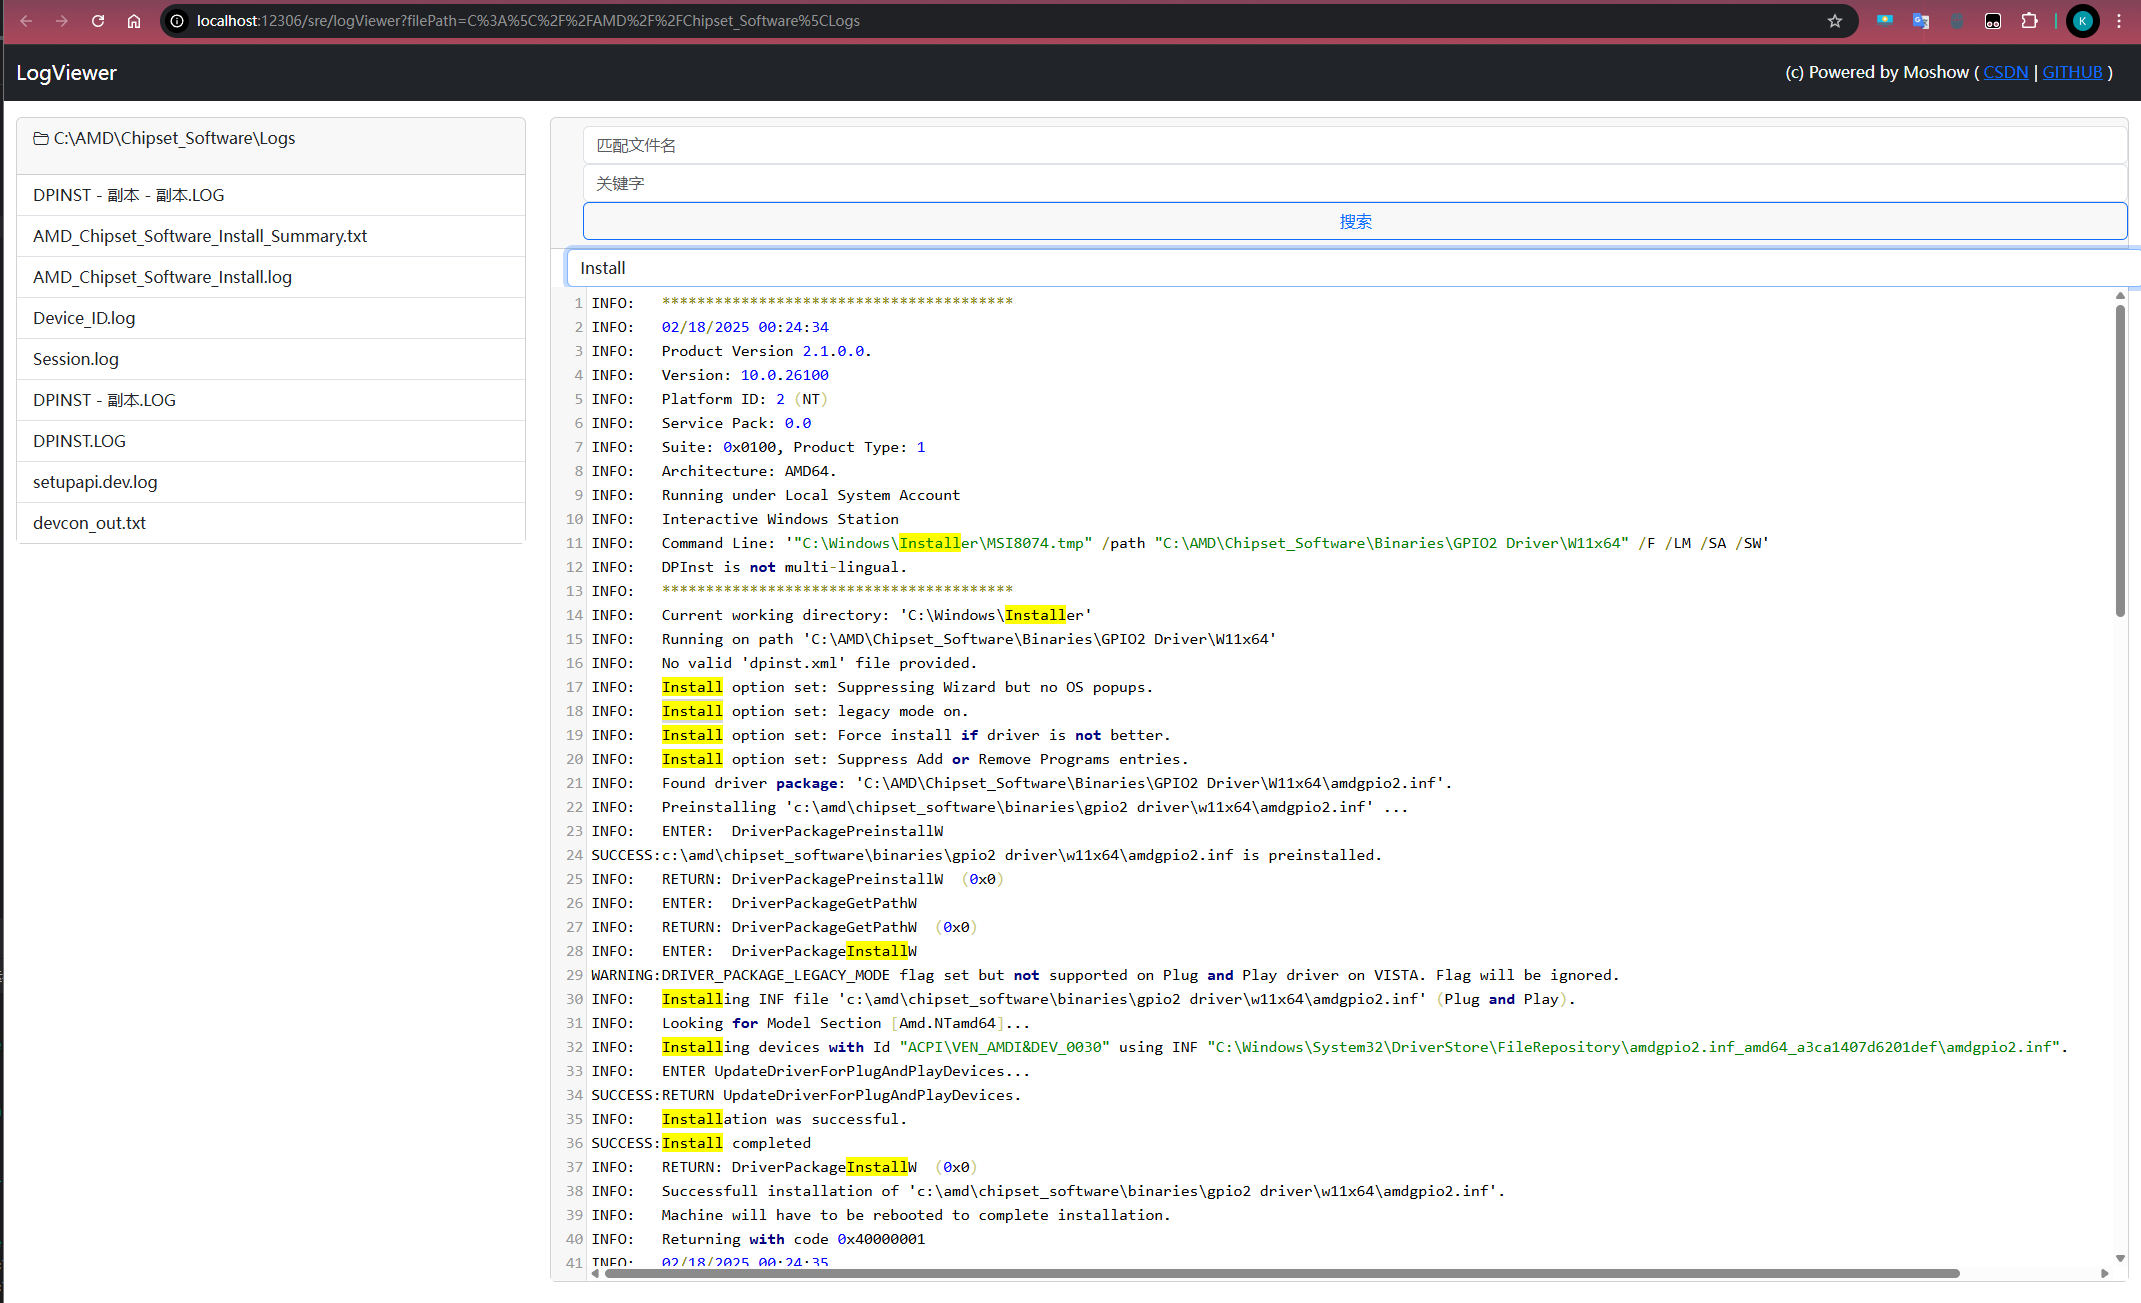
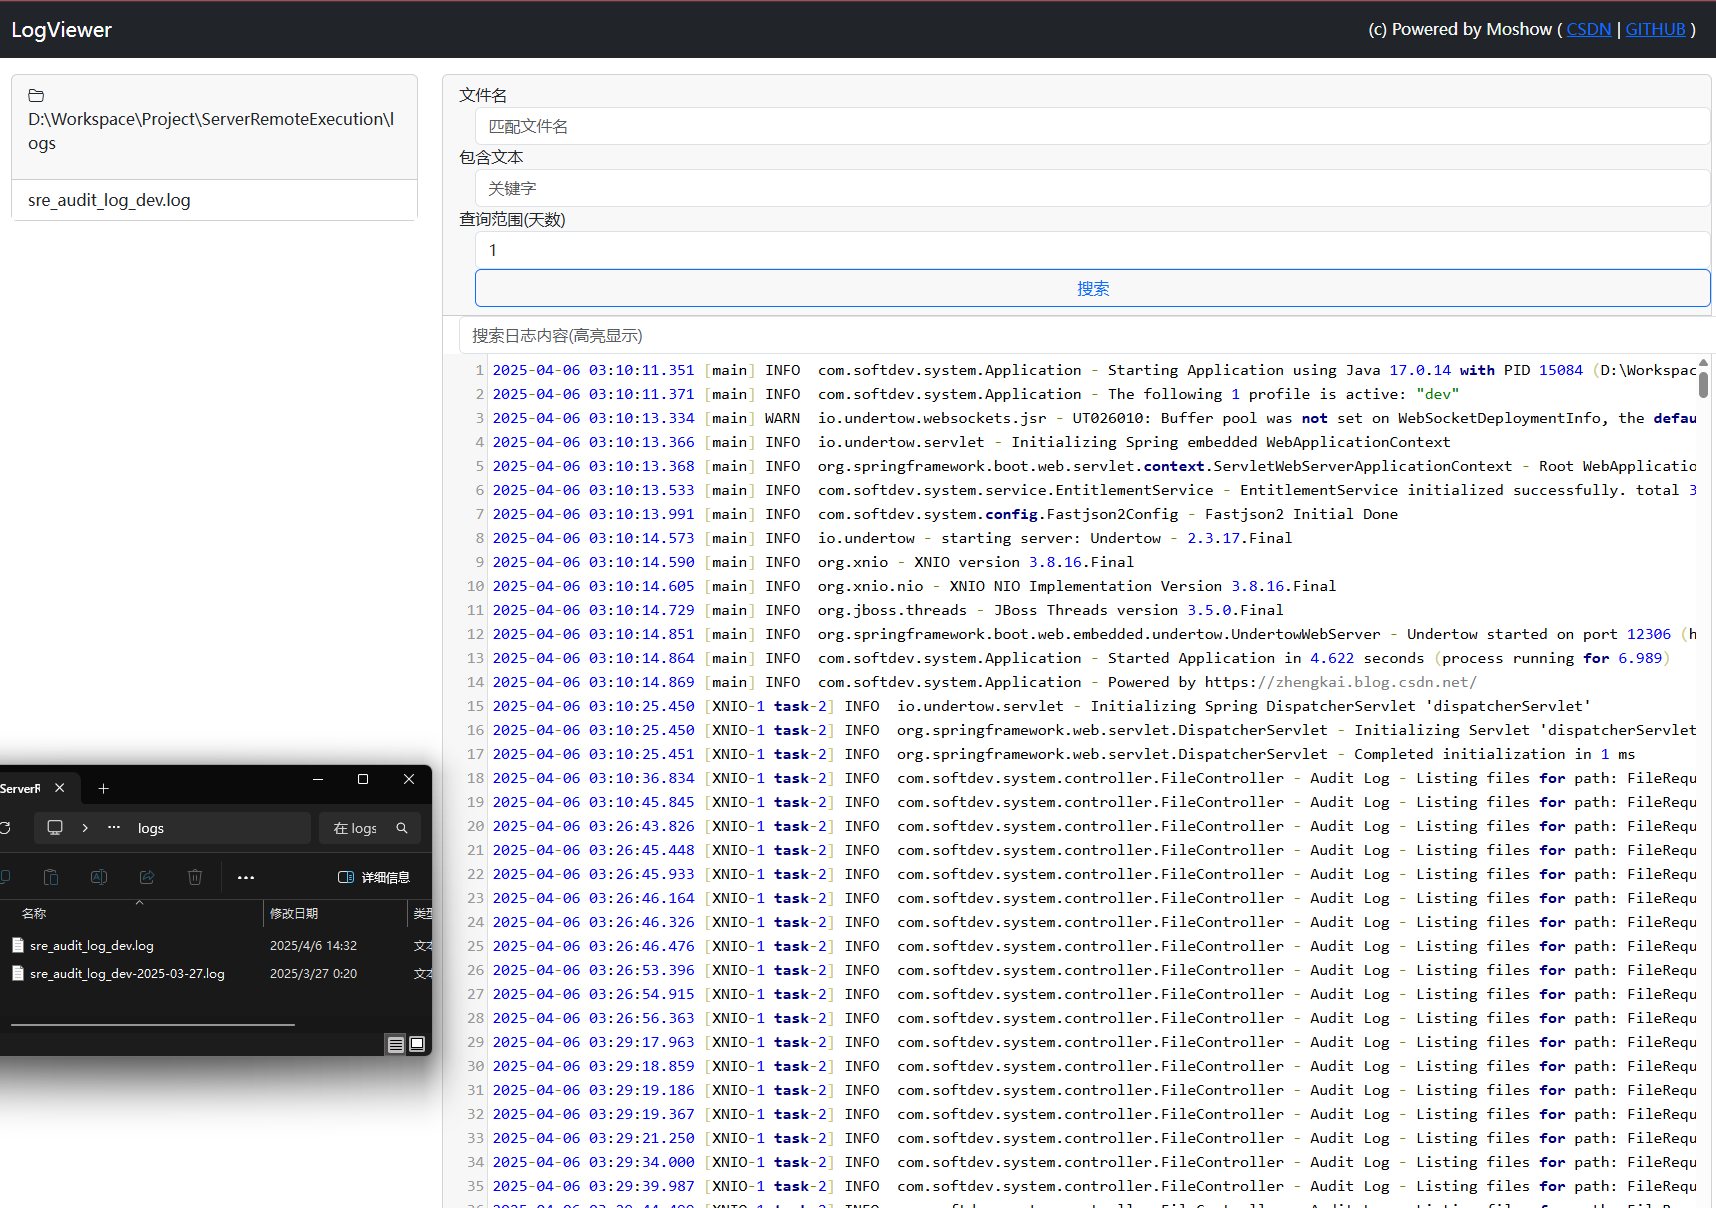
| 2025-04-06 | 优化LogViewer，新增查询范围天数限制，便于检索日志

Changed region(s): [[0.0, 0.0, 1.0, 1.0], [0.7413, 0.4594, 0.7721, 0.4901]]

diff --git a/src/main/resources/templates/logViewer.html b/src/main/resources/templates/logViewer.html
@@ -49,8 +49,9 @@
         <div class="col-md-9">
             <div class="card">
                 <div class="card-header">
-                    <input type="text" id="fileNamePattern" class="form-control ms-3" placeholder="匹配文件名" th:value="${fileNamePattern}">
-                    <input type="text" id="keyWord" class="form-control ms-3" placeholder="关键字" th:value="${keyWord}">
+                    <label>文件名</label><input type="text" id="fileNamePattern" class="form-control ms-3" placeholder="匹配文件名" th:value="${fileNamePattern}">
+                    <label>包含文本</label><input type="text" id="keyWord" class="form-control ms-3" placeholder="关键字" th:value="${keyWord}">
+                    <label>查询范围(天数)</label><input type="number" id="days" class="form-control ms-3" placeholder="天数" min="1" max="999" value="1">
                     <input type="button" id="searchBtn" class="form-control ms-3 btn btn-outline-primary" value="搜索">
                 </div>
                 <div class="card-body p-0 d-flex flex-column">
@@ -125,7 +126,12 @@
                 url: listPlusUrl,
                 type: 'POST',
                 contentType: 'application/json',
-                data: JSON.stringify({ filePath: filePath, fileNamePattern: $('#fileNamePattern').val(), keyWord: $('#keyWord').val() }),
+                data: JSON.stringify({ 
+                    filePath: filePath, 
+                    fileNamePattern: $('#fileNamePattern').val(), 
+                    keyWord: $('#keyWord').val(),
+                    days: $('#days').val() // 新增天数参数
+                }),
                 success: function(response) {
                     renderFileListSidebar(response.data);
                 },

diff --git a/src/main/java/com/softdev/system/controller/FileController.java b/src/main/java/com/softdev/system/controller/FileController.java
@@ -28,6 +28,9 @@ import java.nio.charset.StandardCharsets;
 import java.nio.file.Files;
 import java.nio.file.Path;
 import java.nio.file.Paths;
+import java.nio.file.attribute.BasicFileAttributes;
+import java.time.Duration;
+import java.time.Instant;
 import java.util.*;
 import java.util.stream.Collectors;
 
@@ -99,17 +102,36 @@ public class FileController {
         // 确保路径合法化
         Path normalizedPath = Paths.get(fileRequest.getFilePath()).normalize();
         log.info("Audit Log - Listing files for path: {} ", fileRequest);
-
+        // 获取当前时间
+        Instant now = Instant.now();
+        Duration duration = Duration.ofDays(Long.parseLong(fileRequest.getDays()));
         // 获取所有文件
         List<FileInfo> allFiles = fileSystemService.listFiles(normalizedPath.toString());
-
-        // 将通配符模式转换为正则表达式
-        String fileNamePattern = fileRequest.getFileNamePattern().toLowerCase(Locale.ROOT).trim();
-
-        // 过滤文件名称匹配fileNamePattern的文件
+        // 过滤时间不在查询范围
         List<FileInfo> filteredFiles = allFiles.stream()
-                .filter(file -> file.getName().toLowerCase(Locale.ROOT).contains(fileNamePattern))
+                .filter(file -> {
+                    Path filePath = Paths.get(fileRequest.getFilePath(), file.getName());
+                    try {
+                        BasicFileAttributes attr = Files.readAttributes(filePath, BasicFileAttributes.class);
+                        Instant fileLastModifiedTime = attr.lastModifiedTime().toInstant();
+                        return fileLastModifiedTime.isAfter(now.minus(duration));
+                    } catch (IOException e) {
+                        log.error("Error reading file attributes for path: {}", filePath, e);
+                        return false;
+                    }
+                })
                 .toList();
+
+        if(StringUtils.isNotBlank(fileRequest.getFileNamePattern())){
+            // 将通配符模式转换为正则表达式
+            String fileNamePattern = fileRequest.getFileNamePattern().toLowerCase(Locale.ROOT).trim();
+
+            // 过滤文件名称匹配fileNamePattern的文件
+            filteredFiles = filteredFiles.stream()
+                    .filter(file -> file.getName().toLowerCase(Locale.ROOT).contains(fileNamePattern))
+                    .toList();
+        }
+
 
         // 进一步过滤包含keyWord关键字的文件
         List<FileInfo> resultFiles = new ArrayList<>();

diff --git a/src/main/java/com/softdev/system/entity/FileRequest.java b/src/main/java/com/softdev/system/entity/FileRequest.java
@@ -13,4 +13,5 @@ public class FileRequest {
     String fileNamePattern;
     String keyWord;
     String ticketNumber;
+    String days;
 }

diff --git a/README.md b/README.md
@@ -37,7 +37,7 @@ TEST SHELL
 ----
 | 版本         | 更新内容                                                                                                                             |
 |------------|----------------------------------------------------------------------------------------------------------------------------------|
-| 2025-04-06 | 优化FileExplorer文件管理器，支持自定义路径，易用性改进，修复搜索框问题。<br>优化PowershellExecutor，新增编码选择以及常用命令快速输入                                              |
+| 2025-04-06 | 优化FileExplorer文件管理器，支持自定义路径，易用性改进，修复搜索框问题<br>优化PowershellExecutor，新增编码选择以及常用命令快速输入 <br>优化LogViewer，新增查询范围天数限制，便于检索日志             |
 | 2025-03-11 | LogViewer:优化日志浏览器样式，包括日志样式和高度问题。                                                                                                 |
 | 2025-03-11 | FileExplorer:文本浏览区域下移至网页底部，对于长文本浏览时效果更友好<br>LogViewer:由于Ace渲染性能问题，编辑器更换为CodeMirror5。                                             |
 | 2025-03-10 | ShellExecutor:<br>1.修复shell界面执行命令api路径问题<br>2.修复上下按钮或者键盘上下键调用上一次/下一次命令失效问题<br>3.执行按钮新增防抖功能。<br>4.新增logback审核日志配置功能，可定制日志输出样式和路径。 |
